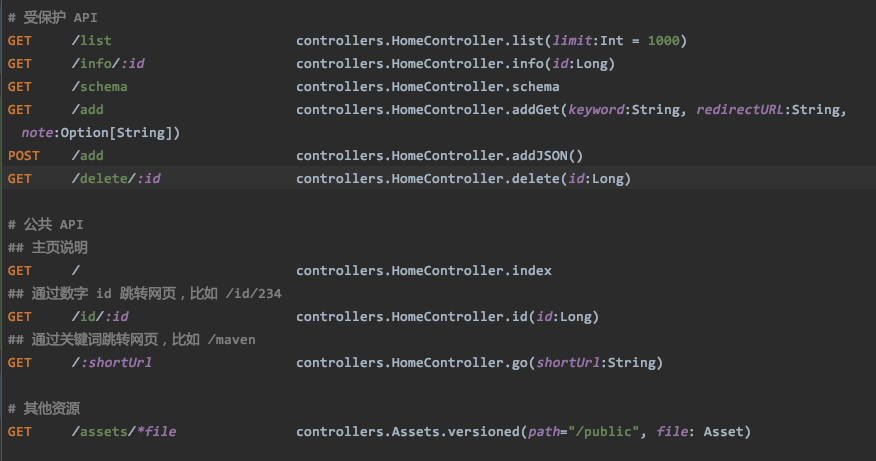
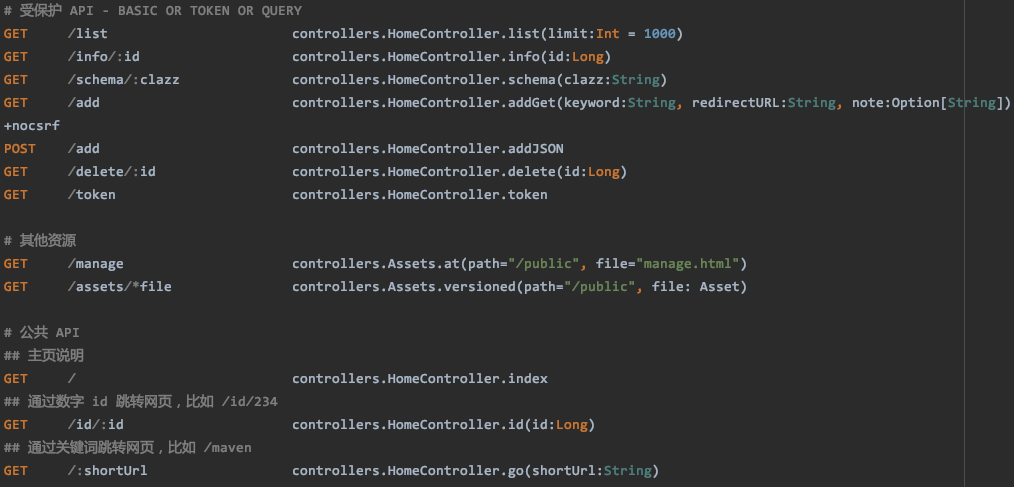
更新到版本 1.3, 添加了使用 token 认证的流程

diff --git a/app/views/Introduction.scala.html b/app/views/Introduction.scala.html
@@ -80,6 +80,9 @@
                                 <hr/>
                                 <p class="lead">更多：参见网站路由</p>
                                 <img src="@routes.Assets.versioned("images/route.png")"/>
+                                <p class="mt-2 mb-0">
+                                    注意，对于受保护 API 而言，需要通过用户名和密码的验证，验证方式包括通过浏览器 Basic 认证、通过 token Query 参数、通过 user 和 password Query 参数，token 的获取可访问 /token 获取。
+                                </p>
                             </div>
                         </div>
                     </div>
